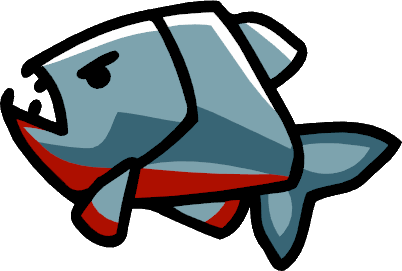
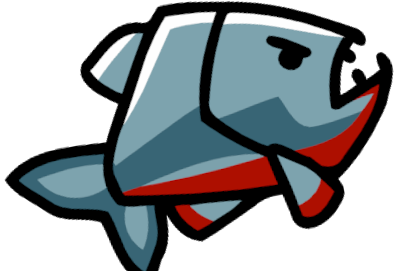
Player moving!!!!! :)

diff --git a/src/main/java/com/example/game/Player.java b/src/main/java/com/example/game/Player.java
@@ -1,18 +1,44 @@
 package com.example.game;
 
 import javafx.scene.image.Image;
+import javafx.scene.input.KeyCode;
 
+import java.util.ArrayList;
 import java.util.List;
 
 public class Player extends Alive {
     private GameEngine engine;
+    private int speed = 7;
     public Player(int positionX, int positionY, GameEngine engine) {
-        super(textures, animationFPS, positionX, positionY, radius, lives, energy);
+        super(new ArrayList<Image>(), 2, positionX, positionY, 10, 3, 5);
+        textures.add(new Image("piranha2.png"));
+        textures.add(new Image("piranha1.png"));
         this.engine = engine;
     }
 
     @Override
     public void update() {
-        // engine.getPressedKeys OR engine.isKeyPressed
+        if (engine.isKeyPressed(KeyCode.RIGHT)){
+            positionX +=speed;
+            facing = Side.RIGHT;
+        }
+        if (engine.isKeyPressed(KeyCode.LEFT)){
+            positionX -=speed;
+            facing = Side.LEFT;
+        }
+        if (engine.isKeyPressed(KeyCode.UP)){
+            positionY -=speed;
+        }
+        if (engine.isKeyPressed(KeyCode.DOWN)){
+            positionY +=speed;
+        }
+        if(positionX < 0)
+            positionX = 0;
+        else if(positionX > 1920)
+            positionX = 1920;
+        if(positionY > 1080)
+            positionY = 1080;
+        else if (positionY<0)
+            positionY = 0;
     }
 }

diff --git a/src/main/java/com/example/game/Sprite.java b/src/main/java/com/example/game/Sprite.java
@@ -27,7 +27,10 @@ public class Sprite {
 
     public void render(GraphicsContext gc) {
         Image texture = textures.get((frames_counter / (60/animationFPS)) % textures.size());
-        gc.drawImage(texture, positionX-texture.getWidth()/2, positionY-texture.getHeight()/2);
+        if (flipped) {
+            gc.drawImage(texture, positionX+texture.getWidth()/2, positionY-texture.getHeight()/2, -texture.getWidth(), texture.getHeight());
+        } else
+            gc.drawImage(texture, positionX-texture.getWidth()/2, positionY-texture.getHeight()/2);
         frames_counter = frames_counter+1 % (textures.size() * (60/animationFPS)) + 1; //todo check fix
     }
 

diff --git a/src/main/java/com/example/game/GameEngine.java b/src/main/java/com/example/game/GameEngine.java
@@ -53,6 +53,8 @@ public class GameEngine implements Runnable {
     public boolean tryLoadLevel(String levelname) {
         // todo later
         spawnSprite(new Piranha(50,500));
+        spawnSprite(new Player(50,500,this));
+
         return true;
     }
 
@@ -62,6 +64,9 @@ public class GameEngine implements Runnable {
     }
     public void removeKeyFromSet (KeyCode keyrem){
         keysPressed.remove(keyrem);
+    }
+    public boolean isKeyPressed(KeyCode kc) {
+        return keysPressed.contains(kc);
     }
 
     private void handleCollisions() {

diff --git a/src/main/java/com/example/game/Piranha.java b/src/main/java/com/example/game/Piranha.java
@@ -29,8 +29,10 @@ public class Piranha extends Alive {
 
     @Override
     public void update() {
-        positionX += speed;
+        positionX += facing == Side.RIGHT ? speed : -speed;
         if (positionX >= 1920)
-            positionX = 0;
+            facing = Side.LEFT;
+        else if (positionX <= 0)
+            facing = Side.RIGHT;
     }
 }
